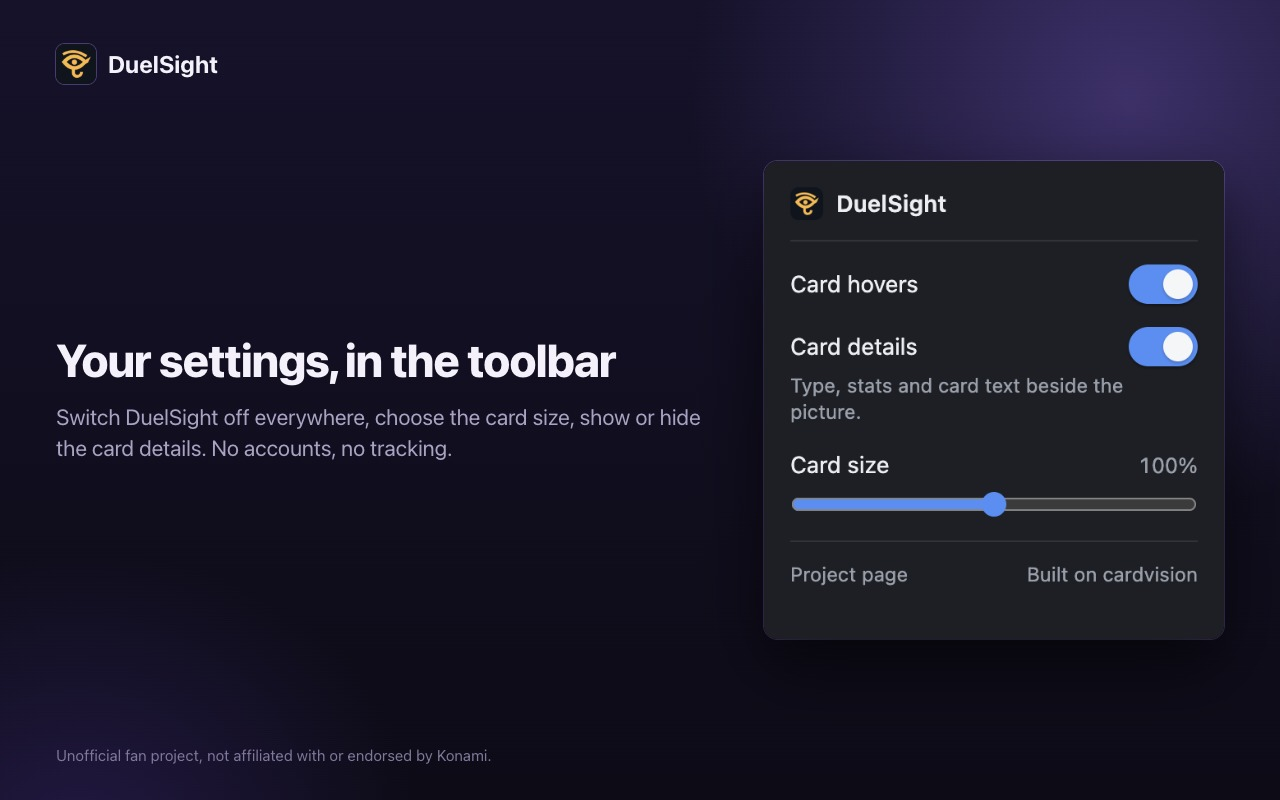
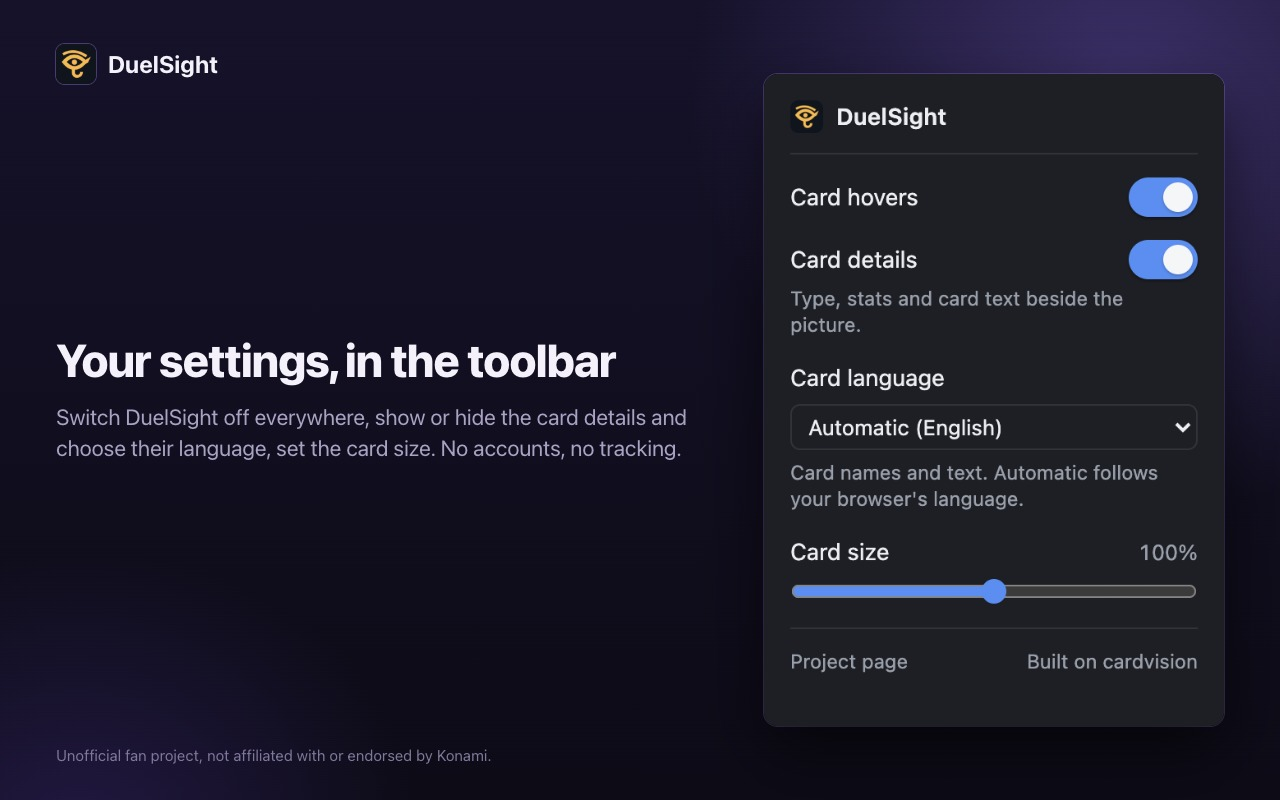
Store images: the popup screenshot with the Card language menu (#29)
4-popup was captured again from the built extension (0.7.0, dark color scheme as before) and laid out by scripts/store-templates.mjs, whose caption now names the language choice. The other images are unchanged.

diff --git a/docs/store/README.md b/docs/store/README.md
@@ -12,7 +12,7 @@ starts from the same files. How to make new ones is in
 | `1-hover-1280x800.jpg` | 1280×800 | Chrome Web Store, addons.mozilla.org | A paused frame of Konami's Master Duel Challenger Cup broadcast: a hover on Dracotail Gulamel, with the card details beside it. |
 | `2-paper-1280x800.jpg` | 1280×800 | Chrome Web Store, addons.mozilla.org | A paused frame of Konami's NAWCQ Minneapolis broadcast, a paper table seen from above: a hover on S:P Little Knight, with the card details. |
 | `3-card-alone-1280x800.jpg` | 1280×800 | Chrome Web Store, addons.mozilla.org | The same hover with card details switched off: the enlarged card on its own. |
-| `4-popup-1280x800.jpg` | 1280×800 | Chrome Web Store, addons.mozilla.org | The toolbar popup: on/off, card details, card size. |
+| `4-popup-1280x800.jpg` | 1280×800 | Chrome Web Store, addons.mozilla.org | The toolbar popup: on/off, card details, card language, card size. |
 | `promo-small-440x280.jpg` | 440×280 | Chrome Web Store (small promo tile) | Drawn around the S:P Little Knight card picture from the paper hover. |
 | `promo-marquee-1400x560.jpg` | 1400×560 | Chrome Web Store (marquee promo tile) | Drawn around a crop of the Master Duel hover. |
 
@@ -44,3 +44,7 @@ in 0.4.0 and is not kept.
 tournament broadcasts as they appear on video. The art, the text, the footage and the people in it
 belong to their owners. DuelSight is an unofficial fan project, not affiliated with or endorsed by
 Konami.
+
+The Card language menu came in 0.7.0 (2026-11-09): `4-popup` was captured again from the built
+extension (dark color scheme, as before), and its caption in `scripts/store-templates.mjs` now names
+the language. The other images are unchanged.
